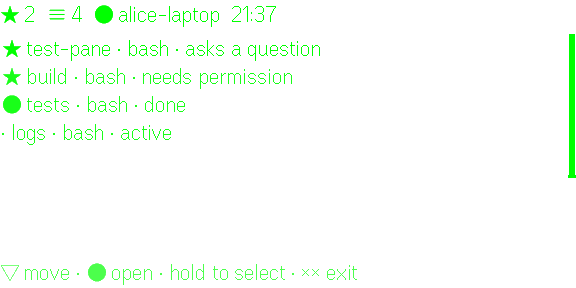
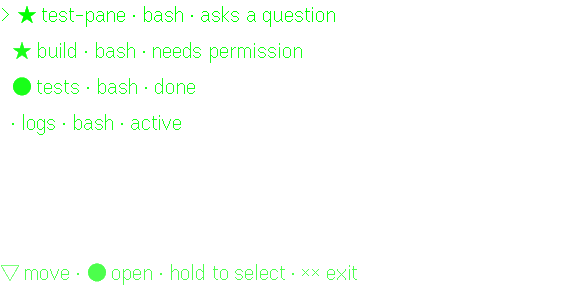
Record the 0.5.0 run in the plan; the listing's screenshots from it
The answers shot is taken from the lens test, so it shows Claude Code's
suggestion as the first answer.

diff --git a/docs/plans/2026-10-25-glance-fixes.md b/docs/plans/2026-10-25-glance-fixes.md
@@ -213,3 +213,13 @@ Deviations:
   in the hint is a unit test.
 - **Eight lines in the columns, not seven,** once the band's 4 px gap
   went with the picture.
+
+## Test run
+
+76 tests, all passing at `9c7d338`: the end-to-end suite in the
+simulator (security first, then the features, the phone pane in
+Chromium), 48 unit tests, and the search of every log for the run's
+tokens and keys. Recorded as
+[test run #9](https://github.com/notmarkopadjen/muxway-glasses-even/issues/9).
+The listing's screenshots are retaken from that run; the answers shot
+now comes from the lens test, so it shows the suggestion first.
